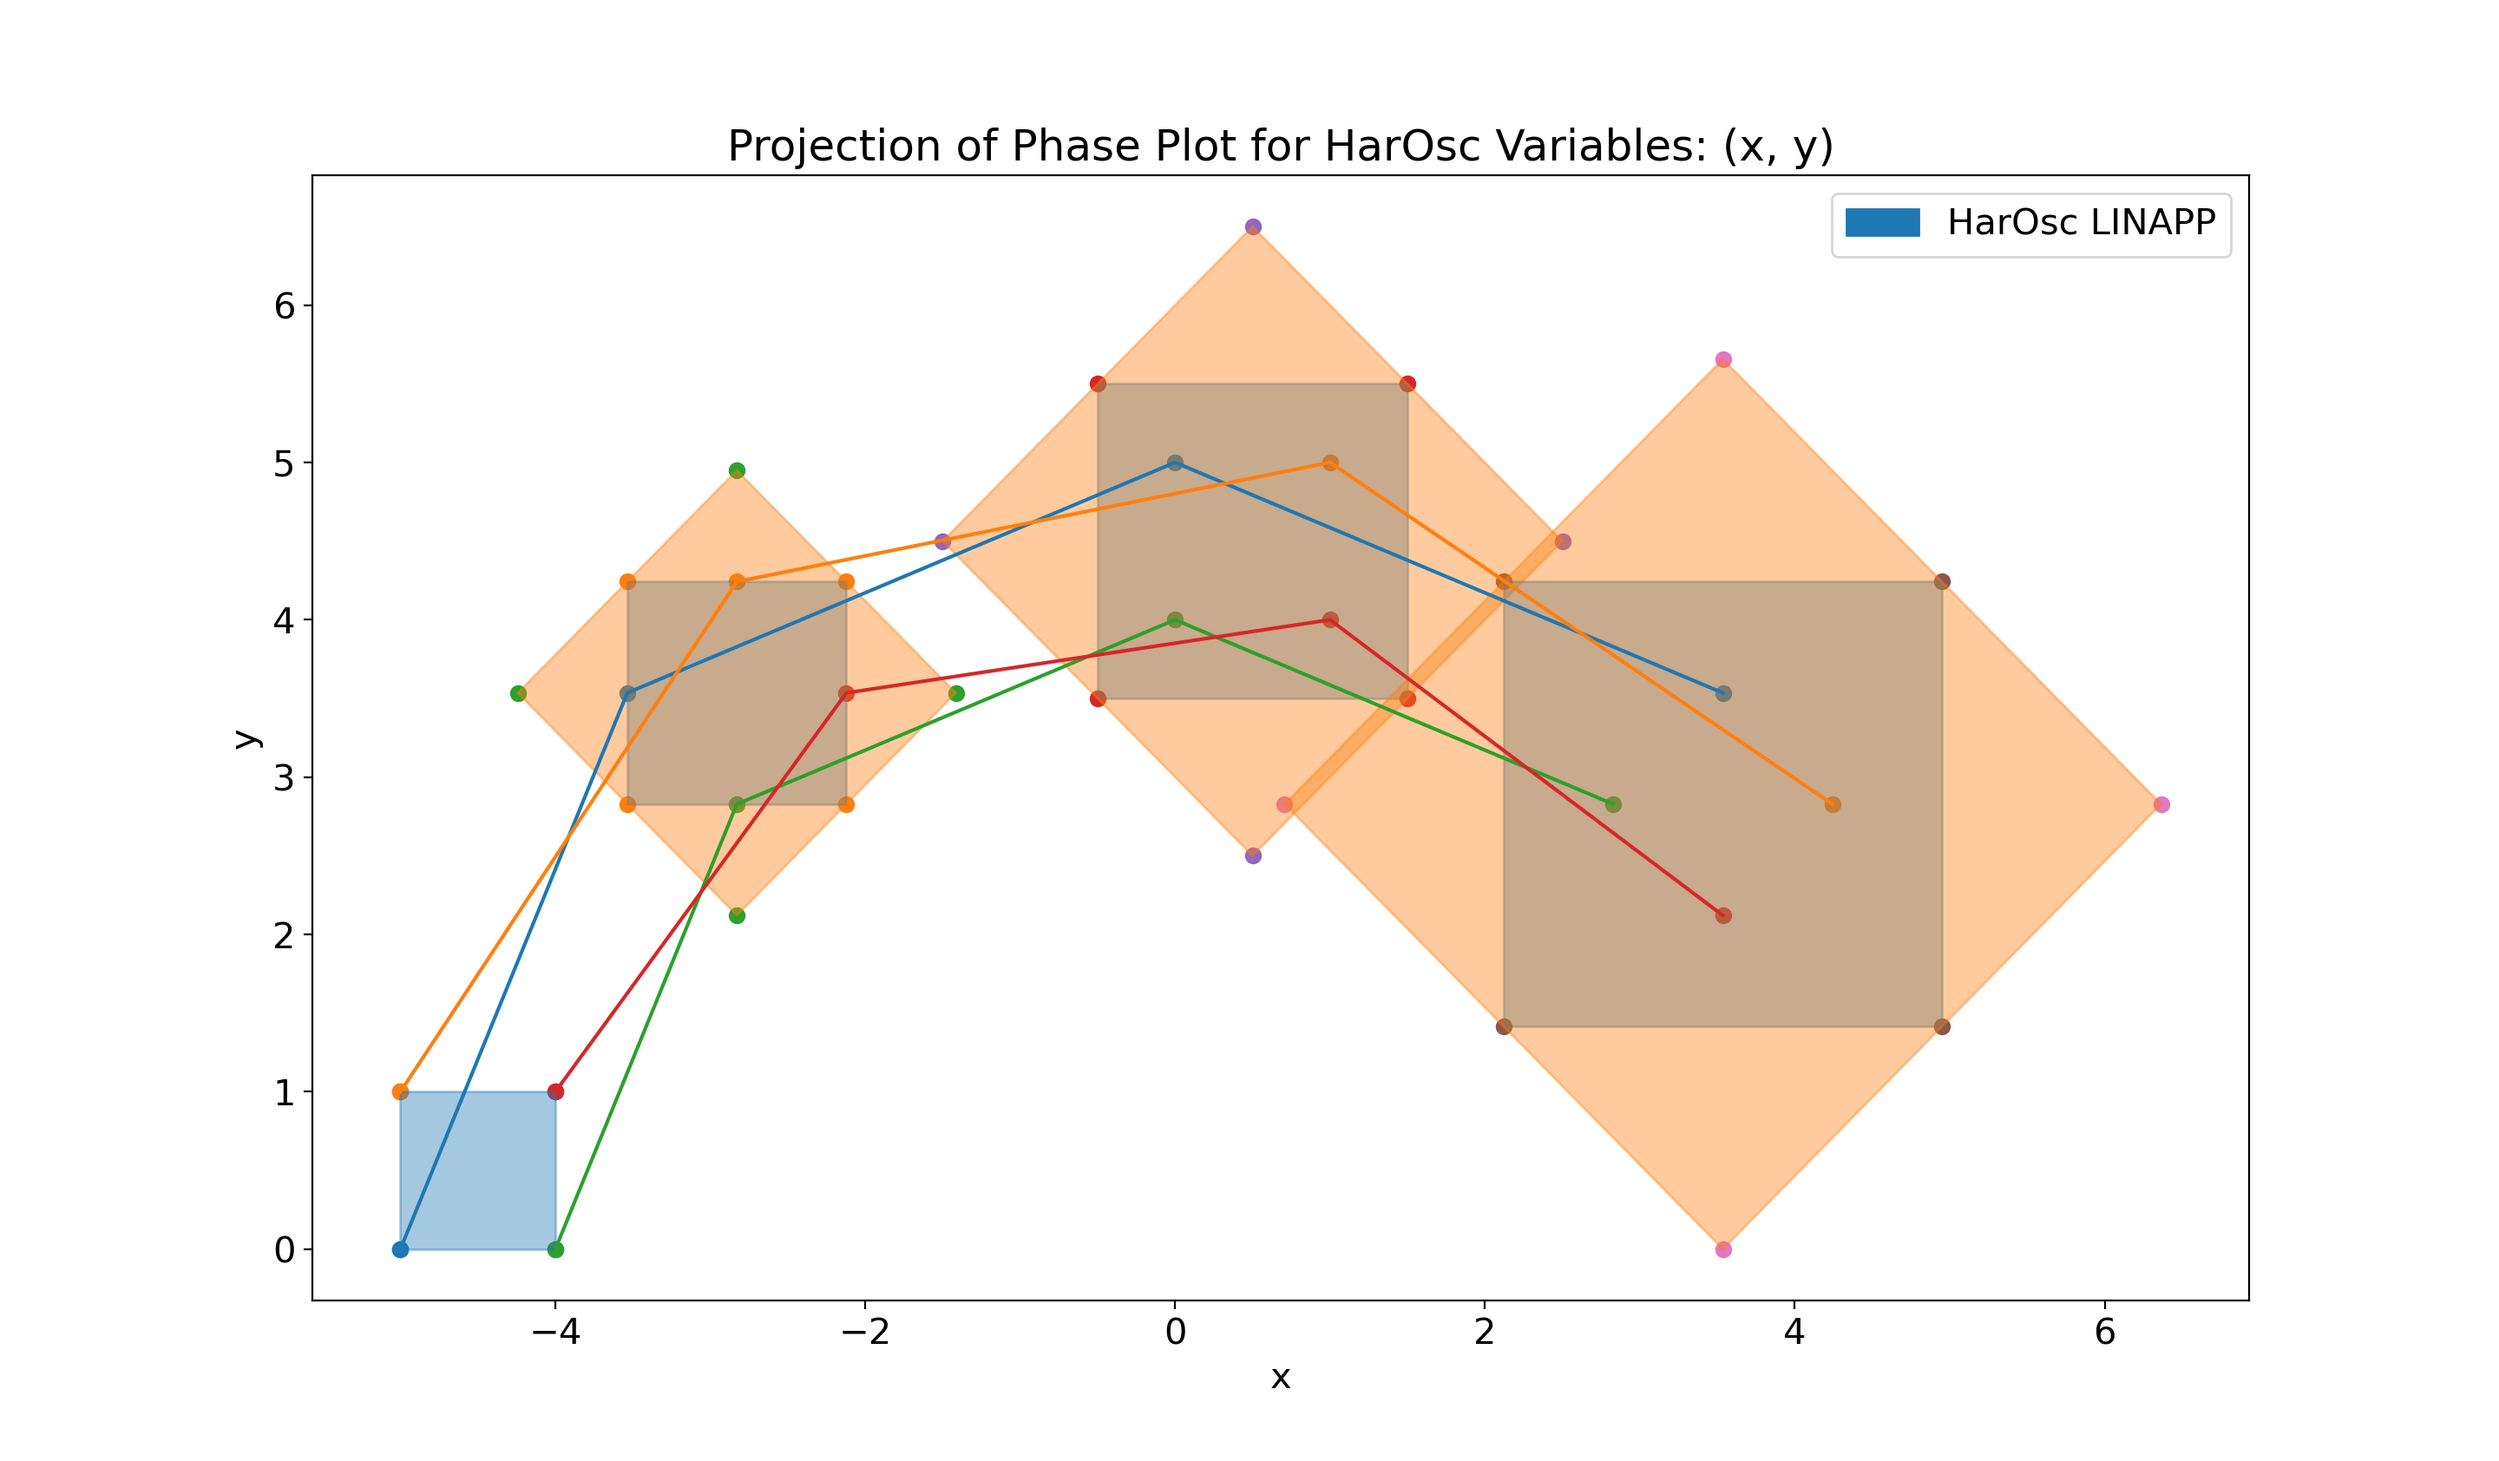
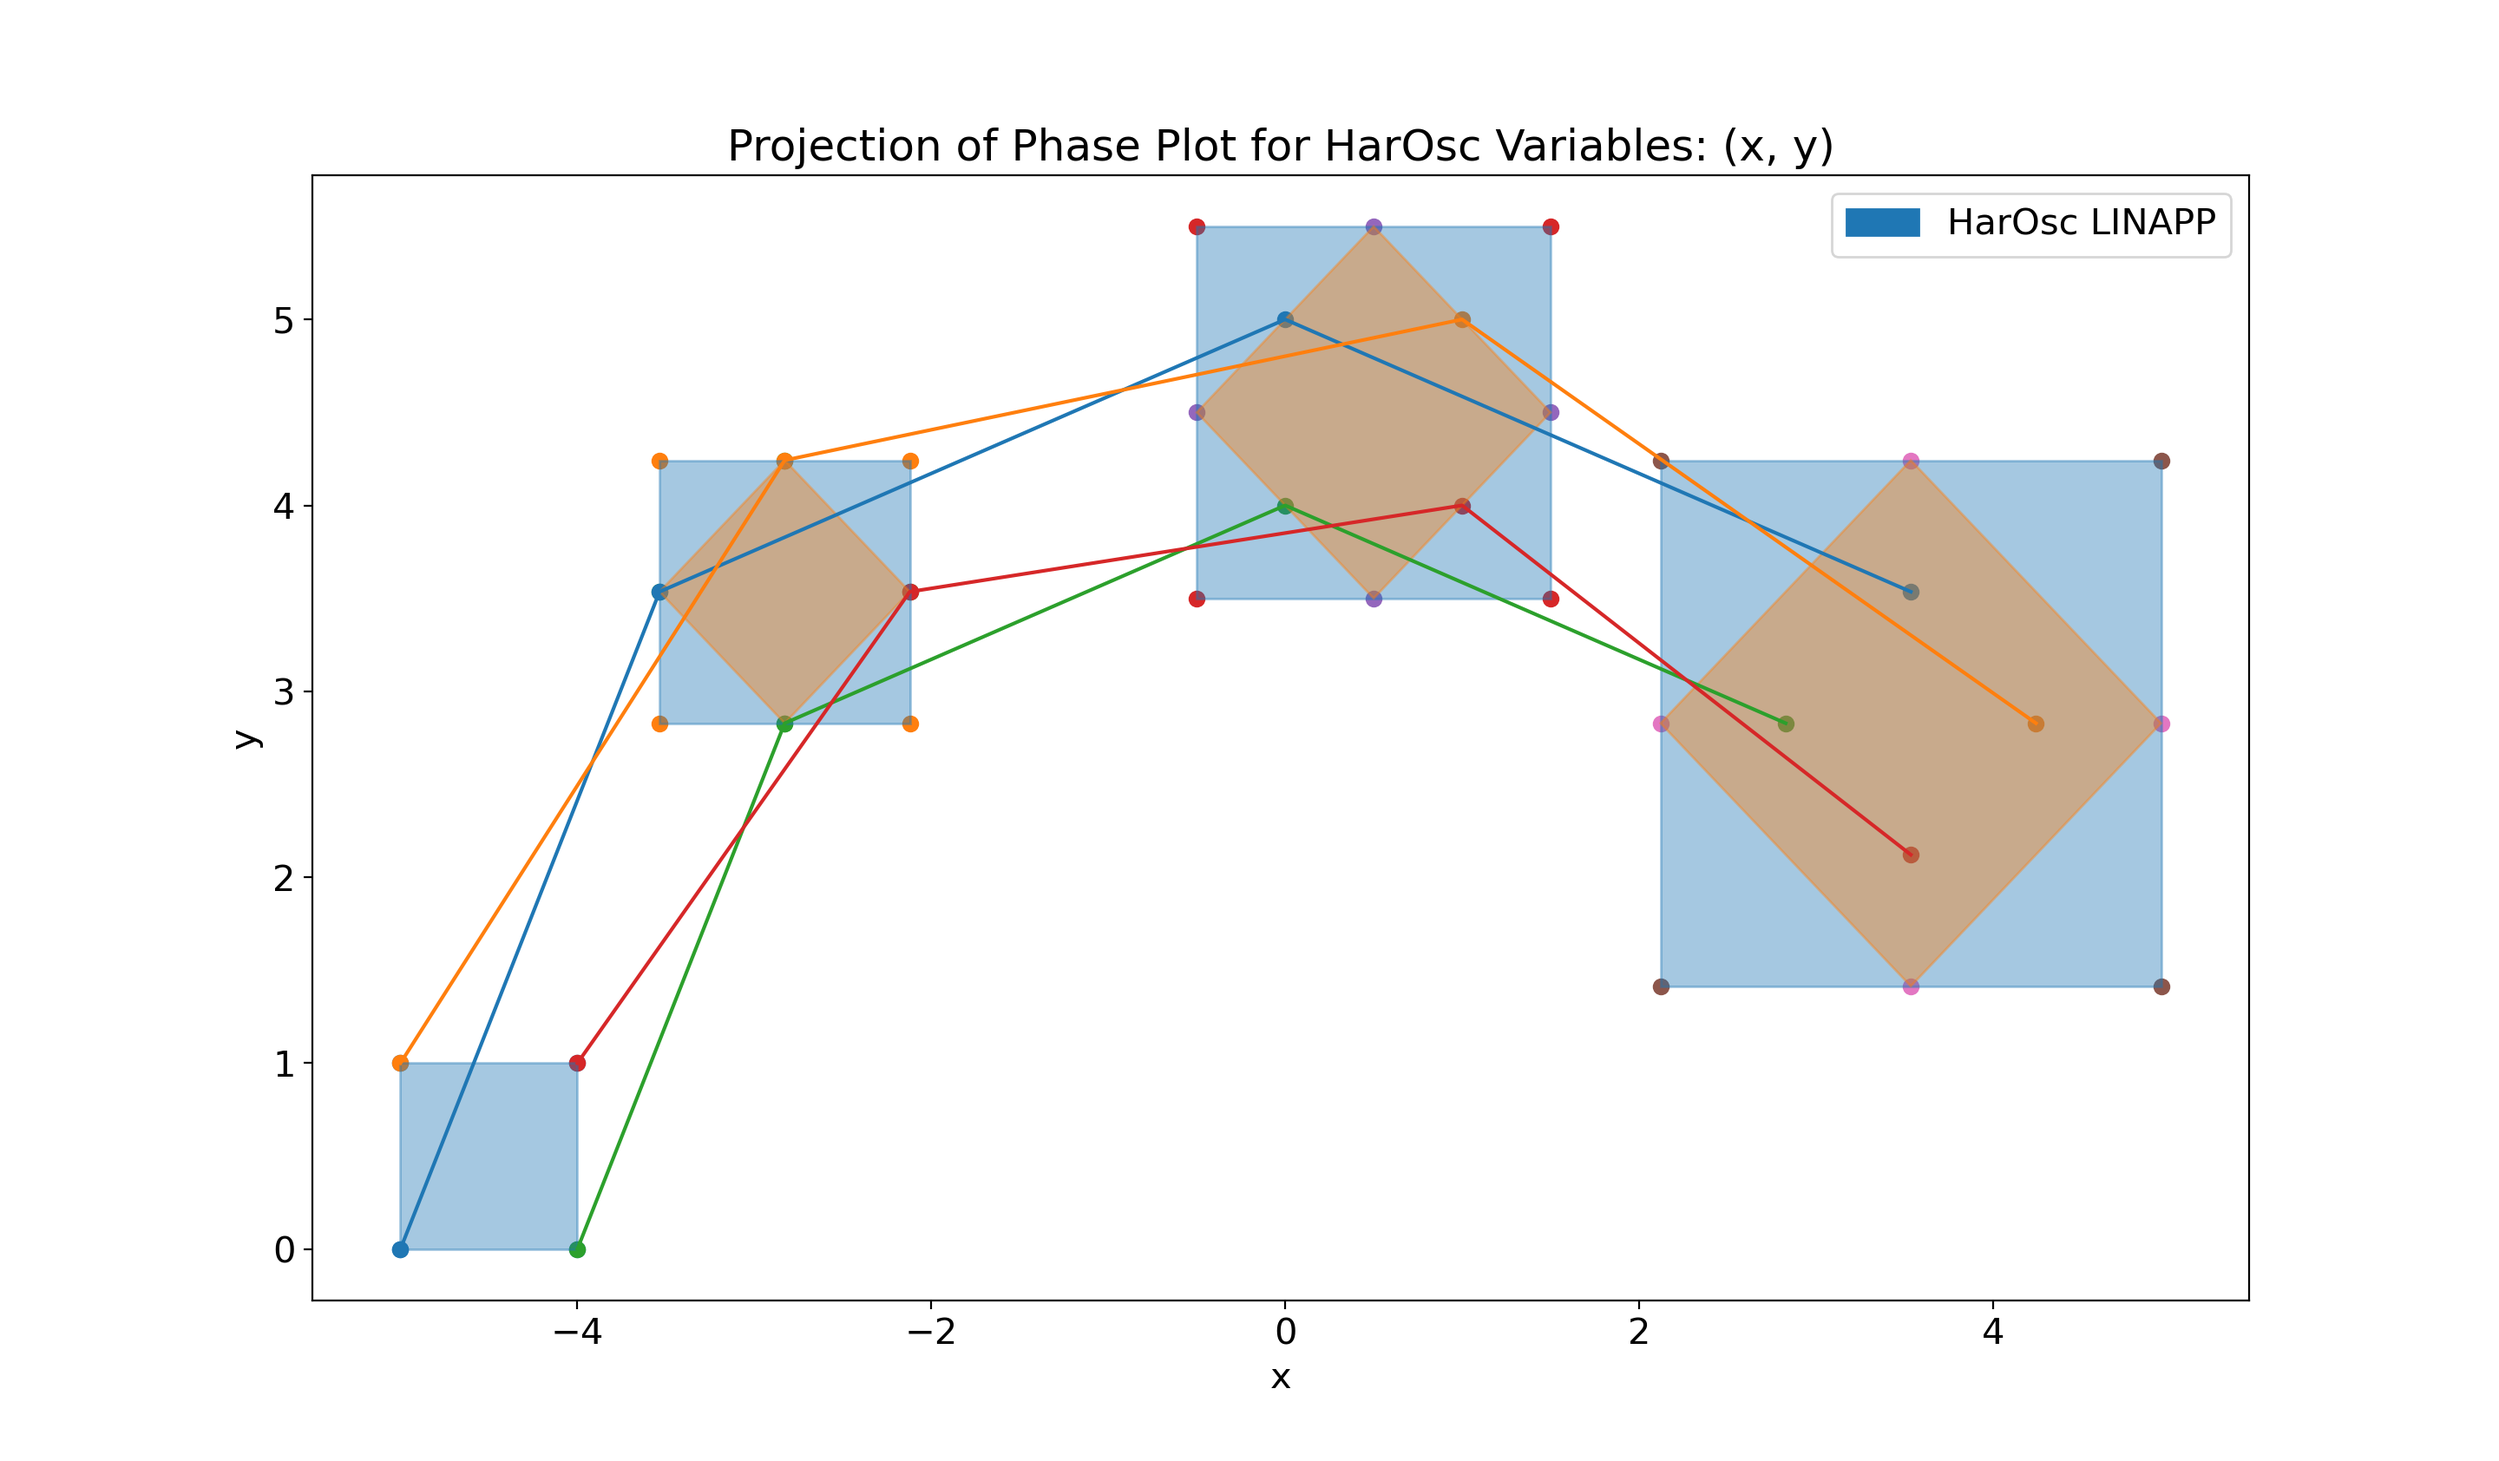
Fixed enum issue for OFO/AFO

Changed region(s): [[0.1562, 0.1544, 0.875, 0.8646], [0.1875, 0.5867, 0.2188, 0.6793], [0.2188, 0.8955, 0.25, 0.9264]]

diff --git a/kaa/bundle.py b/kaa/bundle.py
@@ -152,8 +152,8 @@ class Bundle:
 Wrapper over bundle transformation modes.
 """
 class BundleMode(Enum):
-    AFO = 0
-    OFO = 1
+    AFO = False
+    OFO = True
 
 """
 Object responsible for transforming Bundle objects according to input model's dynamics.
@@ -168,6 +168,7 @@ class BundleTransformer:
     """
     def __init__(self, model, mode):
         self.f = model.f
+        self.vars = model.vars
         self.ofo_mode = mode
 
     """
@@ -184,42 +185,61 @@ class BundleTransformer:
         for row_ind, row in enumerate(bund.T):
             
             'Find the generator of the parallelotope.'
-            p = bund.getParallelotope(row_ind)
-            genFun = p.getGeneratorRep()
-
-            'Create subsitutions tuples.'
-            var_sub = []
-            for var_ind, var in enumerate(bund.vars):
-                var_sub.append((var, genFun[var_ind]))
-
-            Timer.start('Functional Composition')
-            fog = [ func.subs(var_sub, simultaneous=True) for func in self.f ]
-            Timer.stop('Functional Composition')
-
+            ptope = bund.getParallelotope(row_ind)
+            #print(f"Ptope {row_ind}\n")
 
             'Toggle iterators between OFO/AFO'
             'Warning: assuming for now that all directions are used in defining templates.'
-            direct_iter = row.astype(int) if self.ofo_mode else \
-                           range(self.num_dir)
+            direct_iter = row.astype(int) if self.ofo_mode.value else range(bund.num_dir)
+            #print(f"Num of directions: {bund.num_dir}")
 
             for column in direct_iter:
                 curr_L = bund.L[column]
-
-                'Perform functional composition with exact transformation from unitbox to parallelotope.'
-                bound_polyu = 0
-                for coeff_idx, coeff in enumerate(curr_L):
-                    bound_polyu += coeff * fog[coeff_idx]
-
-                'Calculate min/max Bernstein coefficients.'
-                Timer.start('Bound Computation')
-                ub, lb = OptProd(bound_polyu, bund).getBounds()
-                Timer.stop('Bound Computation')
+                #print(f"Curr_L: {curr_L}")
+                ub, lb = self.find_bounds(curr_L, ptope, bund)
 
                 new_offu[column] = min(ub, new_offu[column])
-                new_offl[column] = min(-1 * lb, new_offl[column])
+                new_offl[column] = min(lb, new_offl[column])
 
         bund.offu = new_offu
         bund.offl = new_offl
-        bund.canonize()
 
+        #print("Upper Offsets: {}\n".format(bund.offu))
+        #print("Lower Offsets: {}\n".format(bund.offl))
+
+        bund.canonize()
         return bund
+
+    """
+    Find bounds for max c^Tf(x) over paralleltope
+    @params: ptope: Parallelotope object to optimize over.
+             dir_vec: direction vector
+    @returns: upper bound, lower bound
+    """
+    def find_bounds(self, dir_vec, ptope, bund):
+
+        'Find the generator of the parallelotope.'
+        genFun = ptope.getGeneratorRep()
+
+        'Create subsitutions tuples.'
+        var_sub = []
+        for var_ind, var in enumerate(bund.vars):
+            var_sub.append((var, genFun[var_ind]))
+
+        #print(f"Variable Sub for {dir_vec}: {var_sub}")
+        
+        Timer.start('Functional Composition')
+        fog = [ func.subs(var_sub, simultaneous=True) for func in self.f ]
+        Timer.stop('Functional Composition')
+
+        'Perform functional composition with exact transformation from unitbox to parallelotope.'
+        bound_polyu = 0
+        for coeff_idx, coeff in enumerate(dir_vec):
+            bound_polyu += coeff * fog[coeff_idx]
+
+        'Calculate min/max Bernstein coefficients.'
+        Timer.start('Bound Computation')
+        ub, lb = OptProd(bound_polyu, bund).getBounds()
+        Timer.stop('Bound Computation')
+
+        return ub, -1 * lb

diff --git a/tests/models/test_harosc.py b/tests/models/test_harosc.py
@@ -5,8 +5,9 @@ from kaa.temp.pca_strat import PCAStrat
 from kaa.temp.lin_app_strat import LinStrat
 from kaa.settings import PlotSettings
 from kaa.trajectory import Traj
-
 from kaa.timer import Timer
+from kaa.bundle import BundleMode
+
 from itertools import product
 
 PlotSettings.save_fig = False
@@ -28,7 +29,7 @@ def test_HarOsc():
     SIR_PCA_NUM_TRAJ = 100 #Number of sample trajectories we should use for the PCA routine.
 
     pca_strat = PCAStrat(model, traj_steps=SIR_PCA_TRAJ_STEPS, num_trajs=SIR_PCA_NUM_TRAJ, iter_steps=SIR_PCA_ITER_STEPS)
-    mod_pca_flow = mod_reach.computeReachSet(3, tempstrat=pca_strat)
+    mod_pca_flow = mod_reach.computeReachSet(3, tempstrat=pca_strat, transmode=BundleMode.AFO)
     #trajs = generate_traj(model, 10, 200)
 
     'Generaste the trajectories and add them to the plot.'
@@ -57,7 +58,7 @@ def test_lin_HarOsc():
     SIR_PCA_NUM_TRAJ = 100 #Number of sample trajectories we should use for the PCA routine.
 
     pca_strat = LinStrat(model, iter_steps=SIR_PCA_ITER_STEPS)
-    mod_pca_flow = mod_reach.computeReachSet(NUM_STEPS, tempstrat=pca_strat)
+    mod_pca_flow = mod_reach.computeReachSet(NUM_STEPS, tempstrat=pca_strat, transmode=BundleMode.AFO)
     trajs = [Traj(model, point, steps=NUM_STEPS) for point in product([-5,-4],[0,1])]
 
     'Generaste the trajectories and add them to the plot.'

diff --git a/kaa/plotutil.py b/kaa/plotutil.py
@@ -5,13 +5,11 @@ import matplotlib.patches as pat
 import numpy as np
 from scipy.spatial import HalfspaceIntersection
 
-
 from kaa.settings import PlotSettings
 from kaa.trajectory import Traj
 from kaa.flowpipe import FlowPipe
 from kaa.timer import Timer
 from kaa.parallelotope import LinearSystem
-
 
 plt.rcParams.update({'font.size': PlotSettings.plot_font})
 
@@ -150,12 +148,10 @@ class Plot:
             ax.plot(x_coord, y_coord, color=f"C{traj_idx}")
             ax.scatter(x_coord, y_coord, color=f"C{traj_idx}")
 
-
         ax.set_xlabel(f'{x_var}')
         ax.set_ylabel(f'{y_var}')
         ax.set_title("Projection of Phase Plot for {} Variables: {}".format(self.model.name, (x_var, y_var)))
         ax.legend(handles = [pat.Patch(color = f"C{l}", label=flow_label) for l, (flow_label, _) in enumerate(self.flowpipes)])
-
 
         if PlotSettings.save_fig:
             var_str = ''.join([str(self.model.vars[var_ind]).upper() for var_ind in [x,y]])

diff --git a/kaa/reach.py b/kaa/reach.py
@@ -23,7 +23,7 @@ class ReachSet:
             TempStrat: template loading strategy to use during this reachable set computation.
     @returns FlowPipe object containing computed flowpipe
     """
-    def computeReachSet(self, time_steps, tempstrat=None, transmode=BundleMode.OFO):
+    def computeReachSet(self, time_steps, tempstrat=None, transmode=BundleMode.AFO):
 
         initial_set = self.model.bund
         transformer = BundleTransformer(self.model, transmode)
@@ -42,7 +42,7 @@ class ReachSet:
 
             strat.open_strat(starting_bund)
             trans_bund = transformer.transform(starting_bund)
-            strat.close_strat(trans_bund)
+            #strat.close_strat(trans_bund)
 
             #print("Close: L: {} \n T: {}".format(trans_bund.L, trans_bund.T))
             #print("Close: Offu: {} Offl{}".format(trans_bund.offu, trans_bund.offl))
